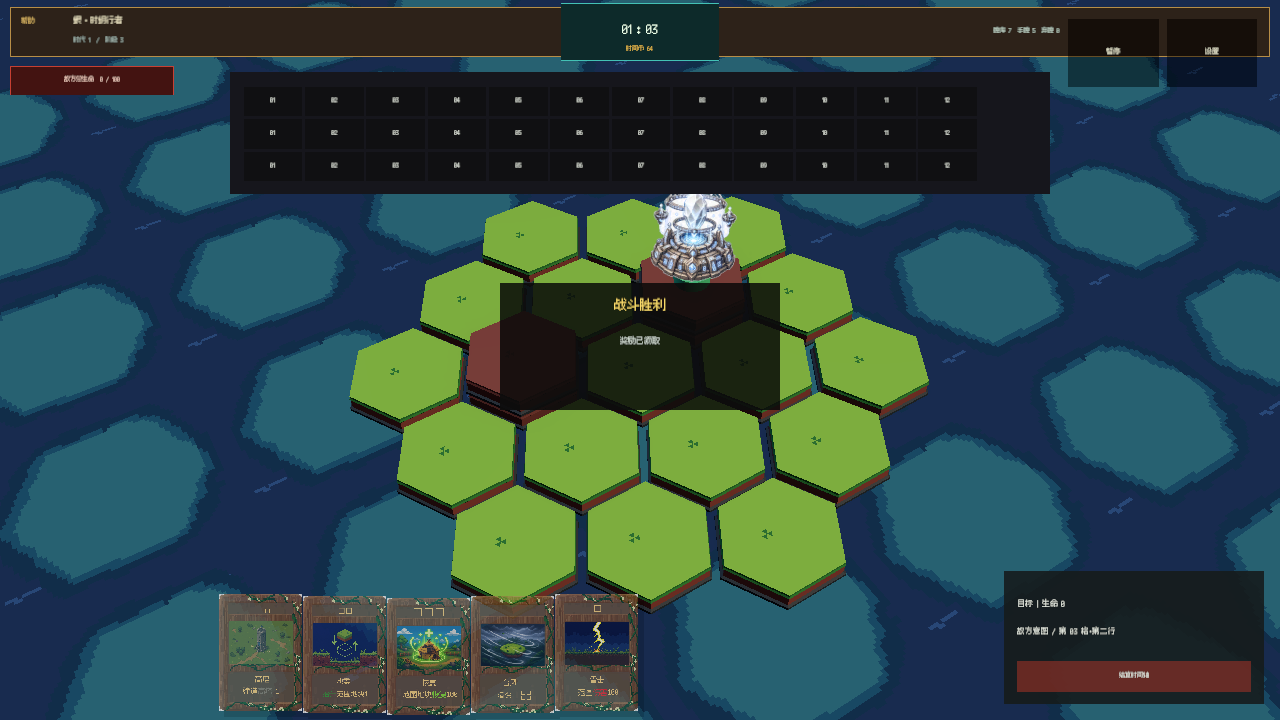
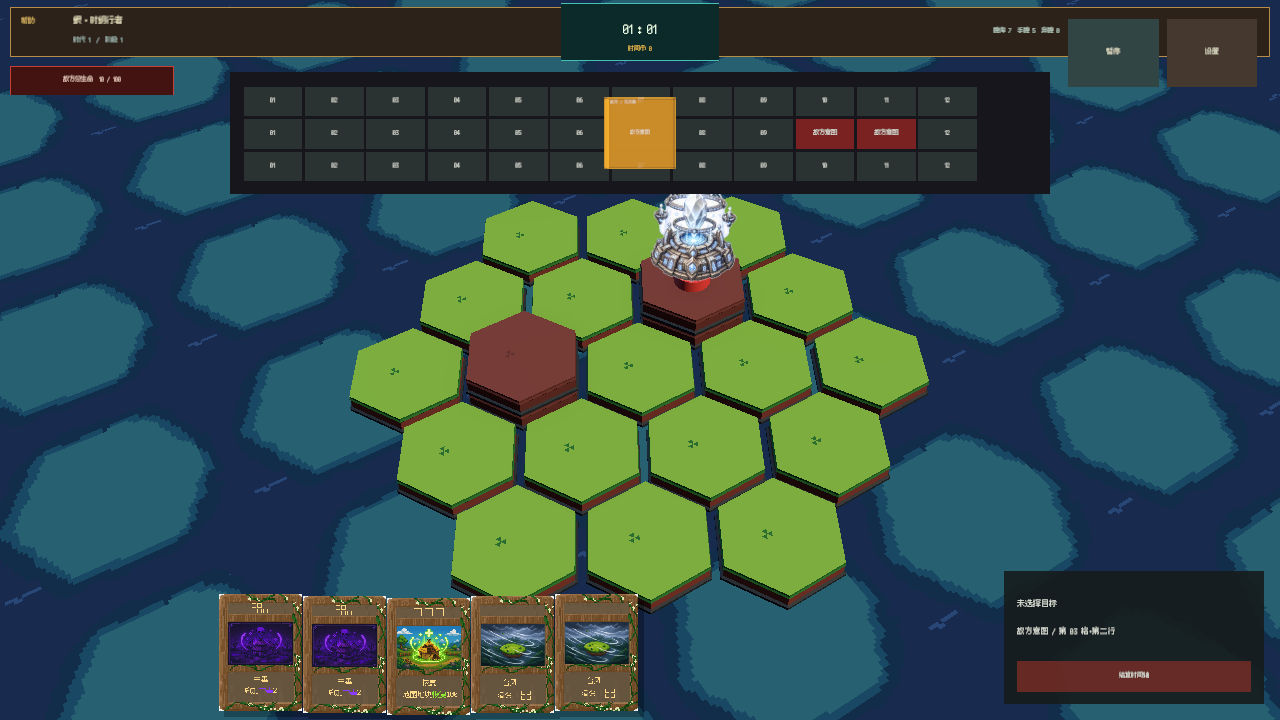
test(unity): isolate combat entrance evidence

diff --git a/unity/Assets/_Project/Tests/PlayMode/CombatShell/CombatShellEntranceVisualEvidenceTests.cs b/unity/Assets/_Project/Tests/PlayMode/CombatShell/CombatShellEntranceVisualEvidenceTests.cs
@@ -5,6 +5,8 @@ using System.IO;
 using NUnit.Framework;
 using TimeKey.Application.SceneFlow;
 using TimeKey.Composition.SceneFlow;
+using TimeKey.Presentation;
+using TimeKey.Presentation.BattleFlow;
 using TimeKey.Presentation.CombatShell;
 using UnityEngine;
 using UnityEngine.SceneManagement;
@@ -23,9 +25,6 @@ namespace TimeKey.Tests.PlayMode.CombatShell
         private Scene _loadedScene;
         private Camera _camera;
         private RenderTexture _renderTexture;
-        private Transform _reusedSceneRoot;
-        private bool _reusedSceneRootWasActive;
-        private bool _ownsLoadedScene;
         private int _previousWidth;
         private int _previousHeight;
         private bool _previousFullscreen;
@@ -41,26 +40,6 @@ namespace TimeKey.Tests.PlayMode.CombatShell
             if (_previousActiveScene.IsValid() && _previousActiveScene.isLoaded)
             {
                 SceneManager.SetActiveScene(_previousActiveScene);
-            }
-
-            if (_ownsLoadedScene && _loadedScene.IsValid() && _loadedScene.isLoaded)
-            {
-                var unload = SceneManager.UnloadSceneAsync(_loadedScene);
-                if (unload != null)
-                {
-                    var deadline = Time.realtimeSinceStartup + TimeoutSeconds;
-                    while (!unload.isDone && Time.realtimeSinceStartup < deadline)
-                    {
-                        yield return null;
-                    }
-
-                    Assert.That(unload.isDone, Is.True, "Combat scene unload timed out.");
-                }
-            }
-
-            if (_reusedSceneRoot != null)
-            {
-                _reusedSceneRoot.gameObject.SetActive(_reusedSceneRootWasActive);
             }
 
             if (_renderTexture != null)
@@ -87,48 +66,18 @@ namespace TimeKey.Tests.PlayMode.CombatShell
             Screen.SetResolution(CaptureWidth, CaptureHeight, false);
             yield return null;
 
-            var existingScene = SceneManager.GetSceneByName("CombatVerticalSlice");
-            if (existingScene.IsValid() && existingScene.isLoaded)
+            var load = SceneManager.LoadSceneAsync(
+                "CombatVerticalSlice",
+                LoadSceneMode.Single);
+            Assert.That(load, Is.Not.Null);
+            var loadDeadline = Time.realtimeSinceStartup + TimeoutSeconds;
+            while (!load.isDone && Time.realtimeSinceStartup < loadDeadline)
             {
-                var unloadExisting = SceneManager.UnloadSceneAsync(existingScene);
-                if (unloadExisting != null)
-                {
-                    var unloadDeadline = Time.realtimeSinceStartup + TimeoutSeconds;
-                    while (!unloadExisting.isDone && Time.realtimeSinceStartup < unloadDeadline)
-                    {
-                        yield return null;
-                    }
-
-                    Assert.That(unloadExisting.isDone, Is.True,
-                        "An existing combat scene could not be unloaded before evidence capture.");
-                }
-                else
-                {
-                    _loadedScene = existingScene;
-                    _reusedSceneRoot = FindInScene<Transform>(_loadedScene, "VerticalSliceRoot");
-                    Assert.That(_reusedSceneRoot, Is.Not.Null,
-                        "The existing combat scene had no reusable vertical slice root.");
-                    _reusedSceneRootWasActive = _reusedSceneRoot.gameObject.activeSelf;
-                    _reusedSceneRoot.gameObject.SetActive(false);
-                }
+                yield return null;
             }
 
-            if (!_loadedScene.IsValid())
-            {
-                var load = SceneManager.LoadSceneAsync(
-                    "CombatVerticalSlice",
-                    LoadSceneMode.Additive);
-                Assert.That(load, Is.Not.Null);
-                var loadDeadline = Time.realtimeSinceStartup + TimeoutSeconds;
-                while (!load.isDone && Time.realtimeSinceStartup < loadDeadline)
-                {
-                    yield return null;
-                }
-
-                Assert.That(load.isDone, Is.True, "Combat scene load timed out.");
-                _loadedScene = SceneManager.GetSceneByName("CombatVerticalSlice");
-                _ownsLoadedScene = true;
-            }
+            Assert.That(load.isDone, Is.True, "Combat scene load timed out.");
+            _loadedScene = SceneManager.GetSceneByName("CombatVerticalSlice");
 
             Assert.That(_loadedScene.IsValid() && _loadedScene.isLoaded, Is.True);
             SceneManager.SetActiveScene(_loadedScene);
@@ -140,10 +89,14 @@ namespace TimeKey.Tests.PlayMode.CombatShell
             Assert.That(entry, Is.Not.Null);
 
             var presenter = root.GetComponent<CombatShellEntrancePresenter>();
+            var controller = root.GetComponent<VerticalSliceController>();
+            var settlement = FindInScene<BattleSettlementPresenter>(_loadedScene);
             var topHudRoot = root.Find("SliceCanvas/HUD/CombatTopHUD");
             var background = root.Find("World/CombatShellBackground");
             var cameraRoot = root.Find("World/SliceCamera");
             Assert.That(presenter, Is.Not.Null);
+            Assert.That(controller, Is.Not.Null);
+            Assert.That(settlement, Is.Not.Null);
             Assert.That(topHudRoot, Is.Not.Null);
             Assert.That(background, Is.Not.Null);
             Assert.That(cameraRoot, Is.Not.Null);
@@ -166,6 +119,10 @@ namespace TimeKey.Tests.PlayMode.CombatShell
 
             entry.Bind(DirectLaunch());
             Assert.That(root.gameObject.activeSelf, Is.True);
+            Assert.That(controller.CurrentTargetHp, Is.GreaterThan(0),
+                "Entrance evidence must start from a fresh combat session.");
+            Assert.That(settlement.IsVisible, Is.False,
+                "Entrance evidence must not capture a previous settlement state.");
             Assert.That(presenter.IsComplete, Is.False);
             Assert.That(topHud.alpha, Is.Zero.Within(0.001f));
             var initialScale = background.localScale;

diff --git a/docs/migration/unity-3d/04-verification/evidence/combat-shell-gate-b/visual-review.md b/docs/migration/unity-3d/04-verification/evidence/combat-shell-gate-b/visual-review.md
@@ -16,6 +16,6 @@ The following rendered evidence was opened and inspected, not accepted from exit
 | `interaction-coexist-1280x720.png` | Selected Poison card, effect detail, target highlight, timeline preview, enemy state and Top HUD coexist at the minimum viewport. |
 | `interaction-coexist-1920x1080.png` | The same shared action identity state remains aligned at the reference viewport. |
 | `pause-modal-1280x720.png` | Dim layer and dialog cover world sprites; focus is on the close action and underlying combat input is locked. |
-| three `combat-shell-entrance-1280x720-*.png` frames | Initial, middle and completed HUD/background states visibly progress and match the automated alpha/scale assertions. |
+| three `combat-shell-entrance-1280x720-*.png` frames | A fresh active combat session (positive target HP, no settlement overlay) visibly progresses through initial, middle and completed HUD/background states and matches the automated alpha/scale assertions. |
 
 No unreadable Chinese glyphs, non-Silver player text, incoherent overlap, missing controls, exposed background seams or modal penetration was found. Static captures deliberately disable the entrance presenter; the three PlayMode frames are the animation evidence.
